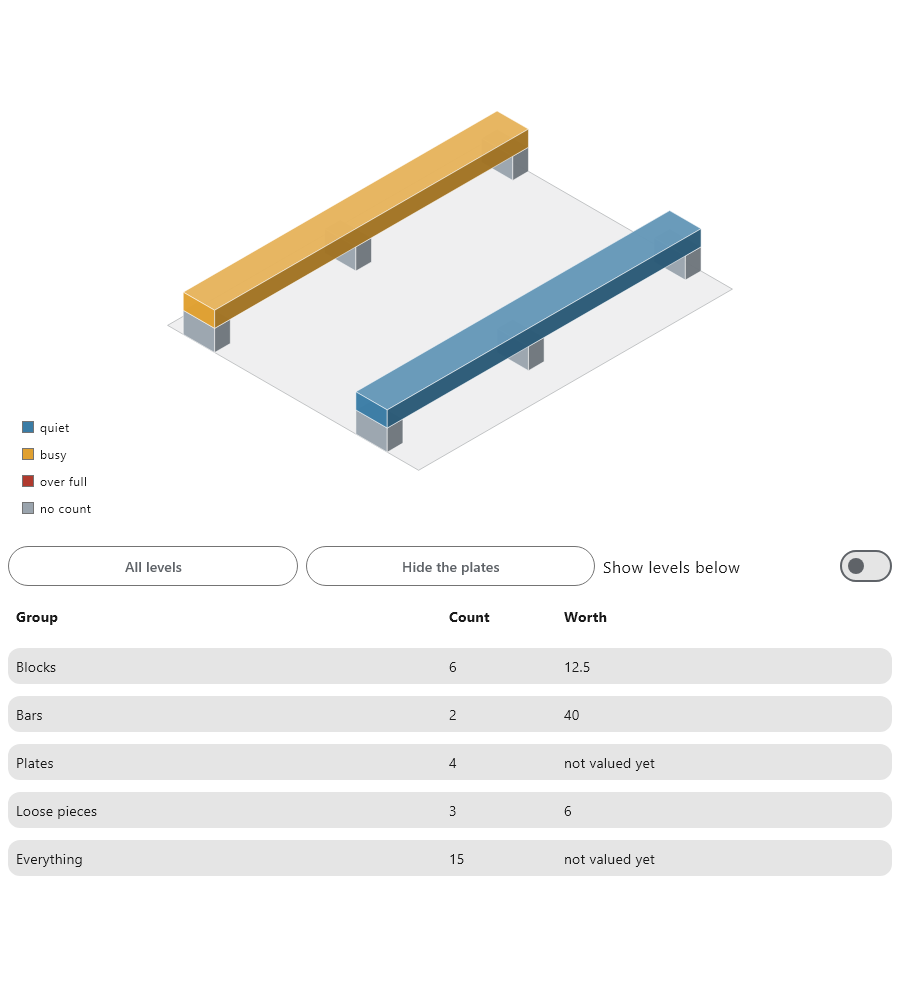
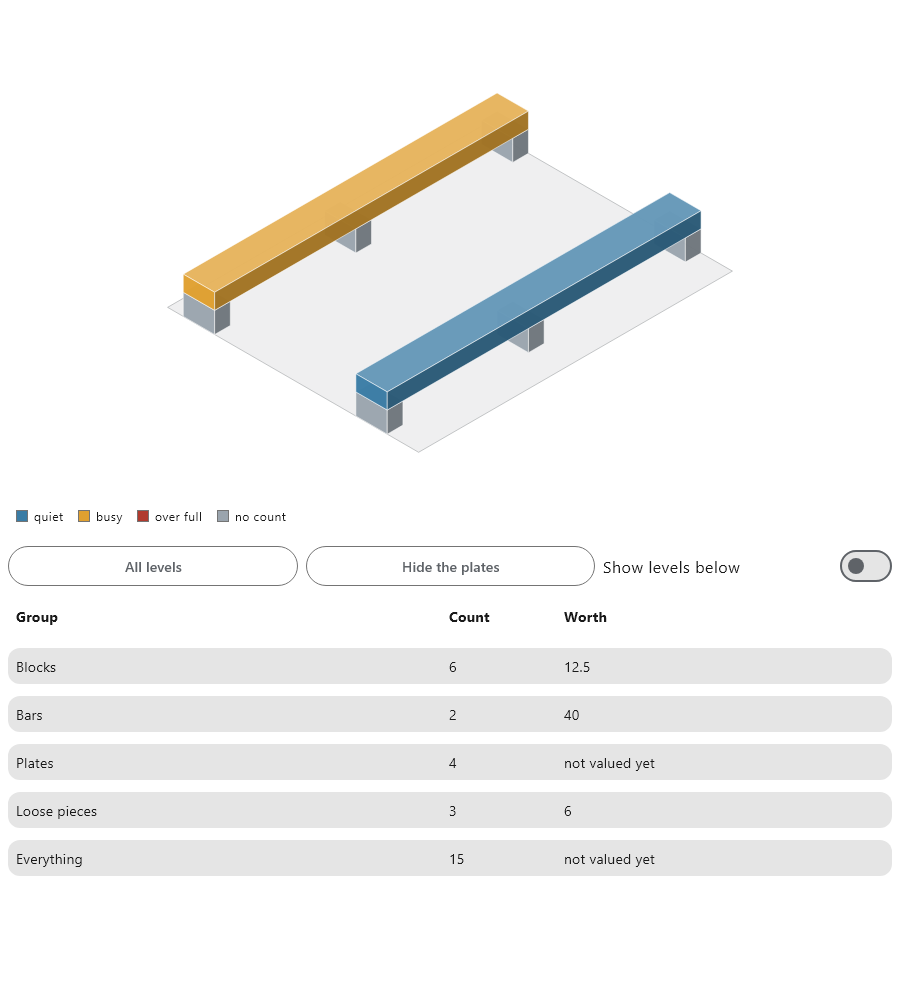
fix(stacked_scene): the legend is a strip below the drawing, never over it
The legend sat over the drawing's lower-left corner; once its panel was
solid it hid what was under it, such as the far-left pier of an
elevation. The scene is now a column: the drawing takes the space left
after the legend, and the window is fitted to that remaining area in
every view (plan, iso, south, west, stretched heights included). The
legend is a full-width strip of entries that wraps on a narrow scene.
When room is short the drawing shrinks, never the legend. The canvas
clips to its own region.

Tests on both themes: in every view the legend's region and the
drawing's region do not intersect and all twelve parts are drawn; in
the west elevation at 640 x 420, where the old overlay covered it, the
far-left pier b4 lies wholly inside the drawing, clear of the legend,
and is painted. The review pictures show the legend as a row under each
drawing, and each drawing a little smaller to make room.

diff --git a/packages/kotlin-compose/src/desktopTest/kotlin/ai/factoredui/compose/renderer/StackedSceneTest.kt b/packages/kotlin-compose/src/desktopTest/kotlin/ai/factoredui/compose/renderer/StackedSceneTest.kt
@@ -13,7 +13,12 @@ import ai.factoredui.compose.stackedscene.mmToCanvas
 import ai.factoredui.compose.stackedscene.partBox
 import ai.factoredui.compose.stackedscene.partRectMm
 import ai.factoredui.compose.stackedscene.projectFaces
+import ai.factoredui.compose.stackedscene.flatViewOf
+import ai.factoredui.compose.stackedscene.partRectInView
 import androidx.compose.ui.unit.DpRect
+import androidx.compose.ui.unit.dp
+import androidx.compose.ui.unit.height
+import androidx.compose.ui.unit.width
 import kotlinx.serialization.json.Json
 import kotlinx.serialization.json.JsonArray
 import kotlinx.serialization.json.JsonObject
@@ -106,9 +111,21 @@ private fun storeFor(view: String, picked: List<String> = emptyList(), scene: An
     "board" to mapOf("scene" to scene, "view" to view, "picked" to picked),
 )
 
-private fun storeWithScheme(scheme: Any?) = mapOf(
-    "board" to mapOf("scene" to stackedBoardText(), "view" to "plan", "picked" to emptyList<String>(), "scheme" to scheme),
+private fun storeWithScheme(scheme: Any?, view: String = "plan") = mapOf(
+    "board" to mapOf("scene" to stackedBoardText(), "view" to view, "picked" to emptyList<String>(), "scheme" to scheme),
 )
+
+private fun overlaps(first: DpRect, second: DpRect): Boolean =
+    first.left < second.right && second.left < first.right && first.top < second.bottom && second.top < first.bottom
+
+/** Where a flat view draws a part on screen, fitted to the drawing's own region as the renderer fits it. */
+private fun drawnRect(drawing: DpRect, scene: SceneView, partId: String, view: StackedDrawing): DpRect {
+    val fit = fitDrawing(scene, view, drawing.width.value.toDouble(), drawing.height.value.toDouble())
+    val rect = partRectInView(scene, scene.footprints!!.items.first { it.id == partId }, flatViewOf(view))
+    val (left, top) = mmToCanvas(fit, rect.x0, rect.y1)
+    val (right, bottom) = mmToCanvas(fit, rect.x1, rect.y0)
+    return DpRect((drawing.left.value + left).dp, (drawing.top.value + top).dp, (drawing.left.value + right).dp, (drawing.top.value + bottom).dp)
+}
 
 private fun selectedIn(store: Map<String, Any?>): Any? = (store["board"] as? Map<*, *>)?.get("selected")
 
@@ -258,6 +275,37 @@ class StackedSceneTest {
 
     @Test
     fun a_white_legend_swatch_on_a_dark_page_is_outlined_and_keeps_its_white_fill() = assertWhiteSwatchIsOutlined(SpecTheme.DARK)
+
+    @Test
+    fun the_legend_is_laid_out_beside_the_drawing_and_never_over_it_in_any_view_on_either_theme() {
+        listOf(SpecTheme.LIGHT, SpecTheme.DARK).forEach { theme ->
+            listOf("plan", "iso", "south", "west").forEach { view ->
+                driveScreen(SCHEMED, storeWithScheme("crowding", view), WIDTH, HEIGHT, theme).use { screen ->
+                    val legend = checkNotNull(screen.boundsOf(legendTag("board"))) { "$view drew no legend" }
+                    val drawing = checkNotNull(screen.boundsOf(partsTag("board"))) { "$view drew no drawing" }
+                    assertFalse(overlaps(legend, drawing), "$view dark=${theme.isDark}: legend $legend overlaps drawing $drawing")
+                    assertEquals("drawn=12 highlighted=0 faded=0 selected=", screen.stateDescriptionOf(partsTag("board")), view)
+                }
+            }
+        }
+    }
+
+    @Test
+    fun in_the_west_elevation_the_far_left_pier_is_drawn_whole_and_clear_of_the_legend_on_either_theme() {
+        listOf(SpecTheme.LIGHT, SpecTheme.DARK).forEach { theme ->
+            driveScreen(SCHEMED, storeWithScheme("crowding", "west"), 640, 420, theme).use { screen ->
+                val legend = checkNotNull(screen.boundsOf(legendTag("board")))
+                val drawing = checkNotNull(screen.boundsOf(partsTag("board")))
+                val pier = drawnRect(drawing, board, "b4", StackedDrawing.WEST)
+                assertTrue(pier.left >= drawing.left && pier.right <= drawing.right && pier.top >= drawing.top && pier.bottom <= drawing.bottom, "the pier $pier lies inside the drawing $drawing")
+                assertFalse(overlaps(legend, pier), "dark=${theme.isDark}: the legend $legend covers the pier $pier")
+                val png = screen.frame().png
+                val pierPixel = pixelAt(png, pier.centreX() to pier.centreY()) and 0xFFFFFF
+                assertNotEquals(theme.ground.toRgbInt(), pierPixel, "the pier's centre is painted")
+                assertTrue(pier.left.value < drawing.left.value + drawing.width.value / 4, "b4 is the far-left pier: ${pier.left} in $drawing")
+            }
+        }
+    }
 
     @Test
     fun the_legend_panel_follows_the_light_theme_with_readable_labels_and_findable_swatches() = assertLegendFollowsTheme(SpecTheme.LIGHT)

diff --git a/packages/kotlin-compose/src/commonMain/kotlin/ai/factoredui/compose/renderer/RenderStackedScene.kt b/packages/kotlin-compose/src/commonMain/kotlin/ai/factoredui/compose/renderer/RenderStackedScene.kt
@@ -35,6 +35,7 @@ import androidx.compose.foundation.layout.BoxWithConstraints
 import androidx.compose.foundation.layout.BoxWithConstraintsScope
 import androidx.compose.foundation.layout.Column
 import androidx.compose.foundation.layout.fillMaxSize
+import androidx.compose.foundation.layout.fillMaxWidth
 import androidx.compose.foundation.layout.height
 import androidx.compose.foundation.layout.padding
 import androidx.compose.foundation.layout.width
@@ -158,27 +159,30 @@ private fun RenderSizedStackedScene(
     val values = remember(scene, props.colourScale) { props.colourScale?.let { partValues(scene, it.channel) }.orEmpty() }
     val scope = rememberCoroutineScope()
     val palette = stackedPalette(LocalSpecTheme.current)
-    BoxWithConstraints(modifier = sizeModifier.nodeTag(node.id).clipToBounds()) {
-        val widthPx = constraints.maxWidth.toDouble()
-        val heightPx = constraints.maxHeight.toDouble()
-        val fit = remember(scene, props.drawing, widthPx, heightPx) { fitDrawing(scene, props.drawing, widthPx, heightPx) }
-        val outlined = props.highlightIds + selection
-        Canvas(
-            modifier = Modifier.fillMaxSize()
-                .testTag(partsTag(node.id))
-                .semantics { stateDescription = drawnPartsSummary(parts, props.highlightIds, selection) }
-                .pointerInput(parts, fit, selection, selectedPath, props.onPartTap) {
-                    val target = PartTapTarget(node.id, scene, parts, props.drawing, fit, selection, selectedPath, props.onPartTap, context, scope) {
-                        localSelection = it
-                    }
-                    detectTapGestures(onTap = { offset -> applyPartTap(target, offset.x.toDouble(), offset.y.toDouble()) })
-                },
-        ) {
-            drawStackedScene(StackedPicture(scene, parts, props.drawing, fit, values, props.colourScale, outlined), palette)
+    Column(modifier = sizeModifier.nodeTag(node.id).clipToBounds()) {
+        BoxWithConstraints(modifier = Modifier.weight(1f).fillMaxWidth().clipToBounds()) {
+            val widthPx = constraints.maxWidth.toDouble()
+            val heightPx = constraints.maxHeight.toDouble()
+            val fit = remember(scene, props.drawing, widthPx, heightPx) { fitDrawing(scene, props.drawing, widthPx, heightPx) }
+            val outlined = props.highlightIds + selection
+            Canvas(
+                modifier = Modifier.fillMaxSize()
+                    .clipToBounds()
+                    .testTag(partsTag(node.id))
+                    .semantics { stateDescription = drawnPartsSummary(parts, props.highlightIds, selection) }
+                    .pointerInput(parts, fit, selection, selectedPath, props.onPartTap) {
+                        val target = PartTapTarget(node.id, scene, parts, props.drawing, fit, selection, selectedPath, props.onPartTap, context, scope) {
+                            localSelection = it
+                        }
+                        detectTapGestures(onTap = { offset -> applyPartTap(target, offset.x.toDouble(), offset.y.toDouble()) })
+                    },
+            ) {
+                drawStackedScene(StackedPicture(scene, parts, props.drawing, fit, values, props.colourScale, outlined), palette)
+            }
+            StackedSceneNotes(scene, parts, props, fit, Modifier.align(Alignment.TopStart))
+            SelectedPartPopup(node.id, scene, parts, selection, props, fit, values)
         }
-        StackedSceneNotes(scene, parts, props, fit, Modifier.align(Alignment.TopStart))
-        ColourLegend(node.id, legendEntries(props.colourScale), Modifier.align(Alignment.BottomStart))
-        SelectedPartPopup(node.id, scene, parts, selection, props, fit, values)
+        ColourLegend(node.id, legendEntries(props.colourScale), Modifier.fillMaxWidth())
     }
 }
 

diff --git a/packages/kotlin-compose/src/commonMain/kotlin/ai/factoredui/compose/renderer/StackedSceneDraw.kt b/packages/kotlin-compose/src/commonMain/kotlin/ai/factoredui/compose/renderer/StackedSceneDraw.kt
@@ -21,6 +21,7 @@ import androidx.compose.foundation.border
 import androidx.compose.foundation.layout.Arrangement
 import androidx.compose.foundation.layout.Box
 import androidx.compose.foundation.layout.Column
+import androidx.compose.foundation.layout.FlowRow
 import androidx.compose.foundation.layout.Row
 import androidx.compose.foundation.layout.padding
 import androidx.compose.foundation.layout.size
@@ -192,9 +193,10 @@ internal fun ColourLegend(nodeId: String, entries: List<LegendEntry>, modifier: 
     if (entries.isEmpty()) return
     val theme = LocalSpecTheme.current
     val swatchEdge = theme.hairline
-    Column(
-        modifier = modifier.padding(8.dp).testTag(legendTag(nodeId)).background(theme.ground.copy(alpha = LEGEND_PANEL_ALPHA), RoundedCornerShape(5.dp)).padding(6.dp),
-        verticalArrangement = Arrangement.spacedBy(3.dp),
+    FlowRow(
+        modifier = modifier.testTag(legendTag(nodeId)).background(theme.ground.copy(alpha = LEGEND_PANEL_ALPHA)).padding(horizontal = 8.dp, vertical = 6.dp),
+        horizontalArrangement = Arrangement.spacedBy(14.dp),
+        verticalArrangement = Arrangement.spacedBy(4.dp),
     ) {
         entries.forEachIndexed { index, entry ->
             Row(verticalAlignment = Alignment.CenterVertically, horizontalArrangement = Arrangement.spacedBy(6.dp)) {
